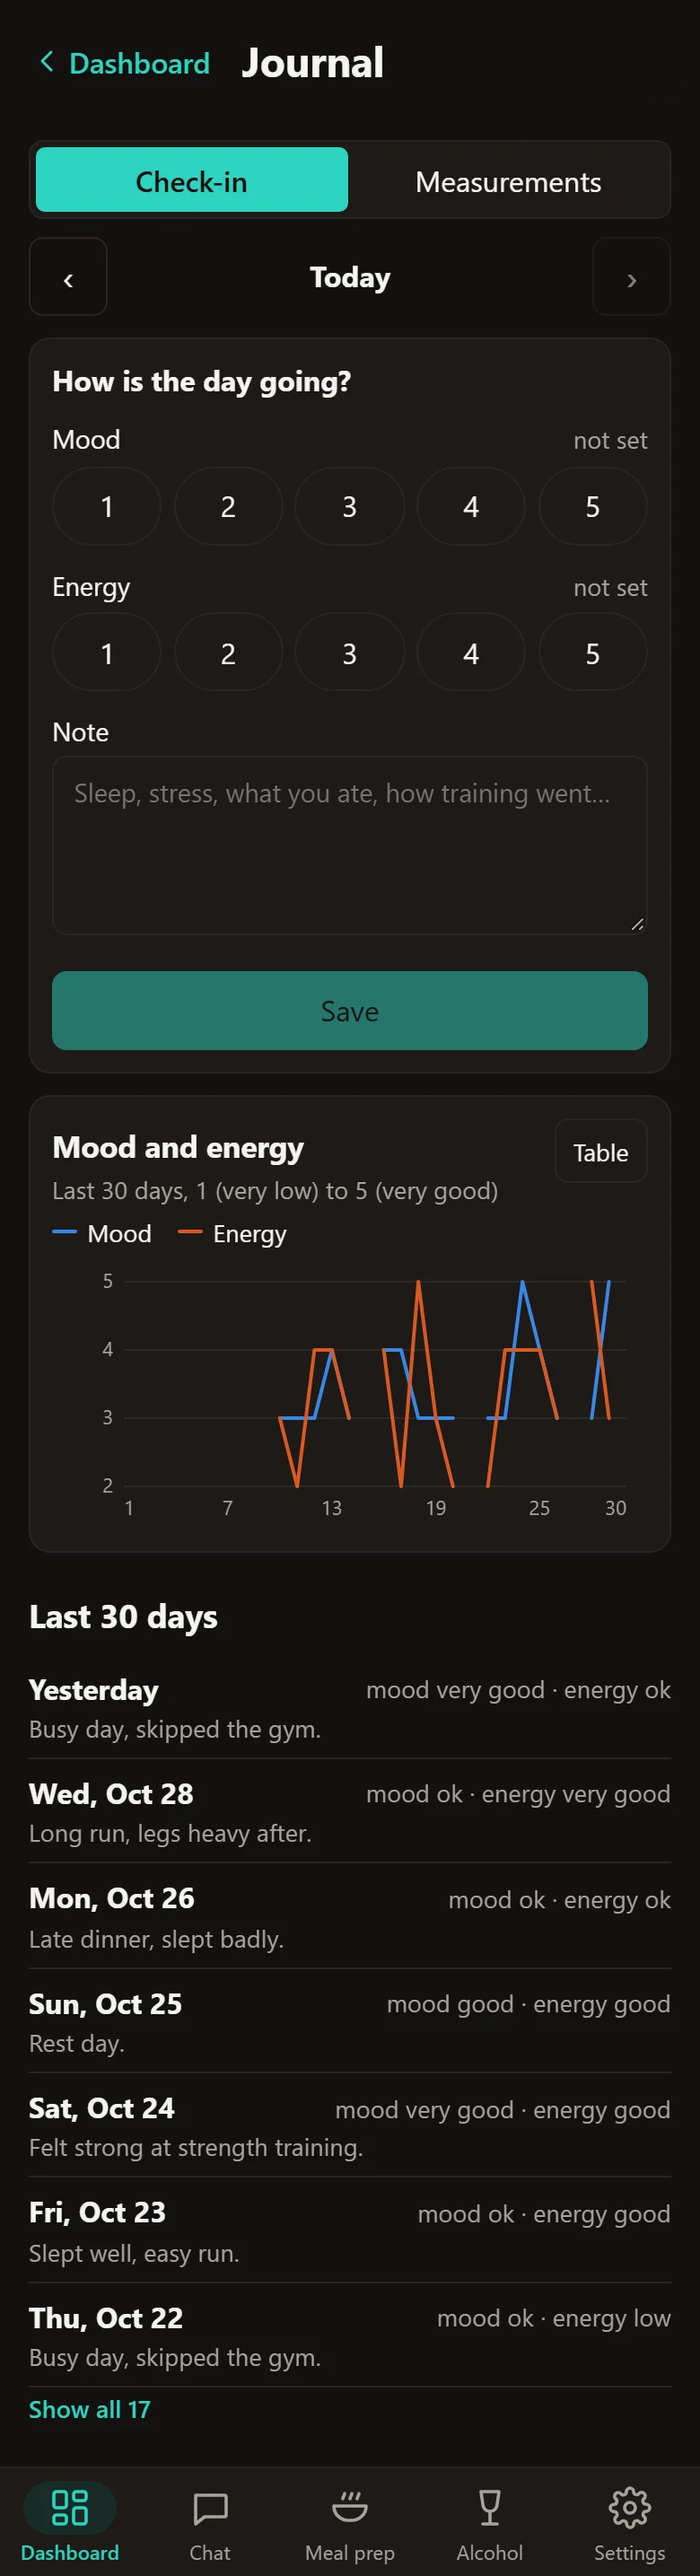
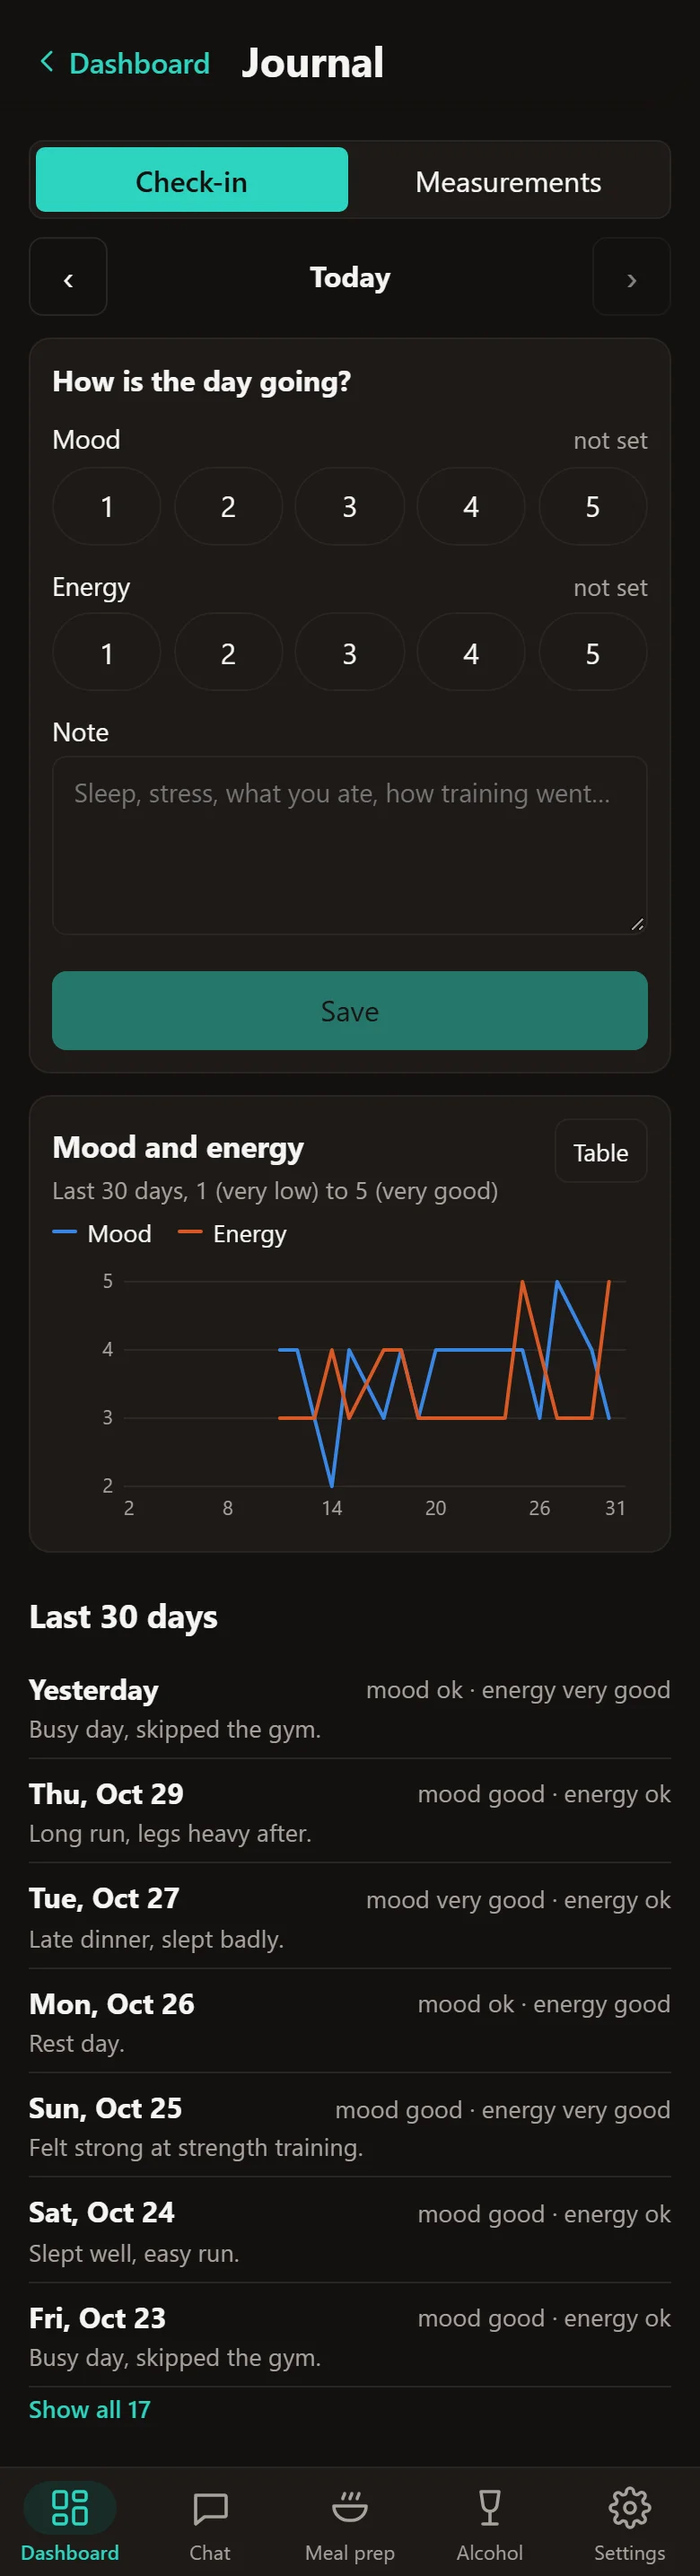
Mood and energy chart: one line across days with no check-in
LineChart gets connectGaps: each series is drawn straight from one logged day to the next
instead of breaking at every missing day. The journal's mood and energy chart uses it, since
check-ins are sparse; other charts keep their breaks. Also drops the Debug logs captures,
which docs:screens no longer makes.

diff --git a/src/ui/charts/LineChart.tsx b/src/ui/charts/LineChart.tsx
@@ -1,6 +1,6 @@
 import { useState, type KeyboardEvent, type PointerEvent } from "react";
 import { ChartFrame, EmptyPlot, seriesColor, SINGLE, Tooltip, useWidth, type LegendItem } from "./frame";
-import { compact, extent, fmtValue, labelIndexes, lastValueIndex, linear, linePath, nearestIndex, niceTicks, segments } from "./scale";
+import { compact, extent, fmtValue, labelIndexes, lastValueIndex, linear, linePath, nearestIndex, niceTicks, present, segments } from "./scale";
 
 export interface LineSeries {
   id: string;
@@ -27,6 +27,8 @@ export interface LineChartProps {
   target?: number | null;
   /** Start the y axis at zero (amounts). Off for levels such as resting heart rate. */
   zero?: boolean;
+  /** Draw each line straight across missing days instead of breaking it (sparse logs such as mood). */
+  connectGaps?: boolean;
   height?: number;
   dim?: boolean;
 }
@@ -34,7 +36,8 @@ export interface LineChartProps {
 const PAD = { top: 12, right: 12, bottom: 24, left: 40 };
 
 /**
- * Trend over time, one or more series on one axis. Missing days break the line. One series gets
+ * Trend over time, one or more series on one axis. Missing days break the line, unless connectGaps
+ * joins the days either side. One series gets
  * a soft area wash and its last value labelled; several get a legend. Hover or arrow keys move a
  * crosshair that reads out every series at that x.
  */
@@ -49,6 +52,7 @@ export function LineChart({
   unit,
   target = null,
   zero = false,
+  connectGaps = false,
   height = 180,
   dim,
 }: LineChartProps) {
@@ -133,20 +137,24 @@ export function LineChart({
             </g>
           )}
           {series.map((s, i) =>
-            segments(s.values).map((seg) => {
-              const pts = seg.values.map((v, k) => [sx(seg.start + k), sy(v)] as [number, number]);
-              return (
-                <g key={`${s.id}-${seg.start}`}>
-                  {single && pts.length > 1 && <path className="viz-area" d={`${linePath(pts)} V${baseline} H${pts[0][0]} Z`} style={{ fill: color(s, i) }} />}
-                  {pts.length > 1 ? (
-                    <path className="viz-line" d={linePath(pts)} style={{ stroke: color(s, i) }} />
-                  ) : (
-                    // A lone day between gaps has no line to sit on: show it as a dot.
-                    <circle className="viz-dot" cx={pts[0][0]} cy={pts[0][1]} r={4} style={{ fill: color(s, i) }} />
-                  )}
-                </g>
-              );
-            }),
+            (connectGaps ? [present(s.values)] : segments(s.values).map((seg) => seg.values.map((v, k) => [seg.start + k, v] as [number, number])))
+              .filter((seg) => seg.length > 0)
+              .map((seg) => {
+                const pts = seg.map(([j, v]) => [sx(j), sy(v)] as [number, number]);
+                return (
+                  <g key={`${s.id}-${seg[0][0]}`}>
+                    {single && pts.length > 1 && (
+                      <path className="viz-area" d={`${linePath(pts)} V${baseline} H${pts[0][0]} Z`} style={{ fill: color(s, i) }} />
+                    )}
+                    {pts.length > 1 ? (
+                      <path className="viz-line" d={linePath(pts)} style={{ stroke: color(s, i) }} />
+                    ) : (
+                      // A lone day between gaps has no line to sit on: show it as a dot.
+                      <circle className="viz-dot" cx={pts[0][0]} cy={pts[0][1]} r={4} style={{ fill: color(s, i) }} />
+                    )}
+                  </g>
+                );
+              }),
           )}
           {single &&
             (() => {

diff --git a/tests/uiKit.test.ts b/tests/uiKit.test.ts
@@ -3,7 +3,7 @@ import assert from "node:assert/strict";
 import { createElement as h } from "react";
 import { renderToStaticMarkup } from "react-dom/server";
 import { BarChart, CalendarHeatmap, LineChart, StatTile } from "../src/ui/charts";
-import { columnPath, compact, labelIndexes, linear, nearestIndex, niceTicks, segments } from "../src/ui/charts/scale";
+import { columnPath, compact, labelIndexes, linear, nearestIndex, niceTicks, present, segments } from "../src/ui/charts/scale";
 import { DefrostTimeline, StockAlerts } from "../src/ui/mealprep/components";
 import { daysCovered, timelineDays } from "../src/ui/mealprep/timeline";
 import { MacroSplit } from "../src/ui/nutrition";
@@ -106,6 +106,15 @@ test("charts: accessible name, table toggle, empty state, target in words", () =
   );
   assert.match(multi, /viz-legend/);
   assert.match(multi, /var\(--series-4\)/, "an explicit slot keeps its color");
+
+  // Missing days break the line (two lone days, two dots), unless connectGaps joins them in one line.
+  const gappy = { title: "Mood", x, series: [{ id: "a", label: "Mood", values: [3, null, 5] }] };
+  assert.equal((render(h(LineChart, gappy)).match(/class="viz-line"/g) ?? []).length, 0);
+  assert.equal((render(h(LineChart, { ...gappy, connectGaps: true })).match(/class="viz-line"/g) ?? []).length, 1);
+  assert.deepEqual(present([null, 3, null, null, 5, Number.NaN]), [
+    [1, 3],
+    [4, 5],
+  ]);
 
   const empty = render(h(LineChart, { title: "Nothing", x, series: [{ id: "a", label: "x", values: [null, null, null] }] }));
   assert.match(empty, /No data for this range/);

diff --git a/src/ui/charts/scale.ts b/src/ui/charts/scale.ts
@@ -93,6 +93,11 @@ export function nearestIndex(x: number, left: number, width: number, count: numb
 }
 
 /** Runs of consecutive non-null values, so a line breaks at missing days instead of bridging them. */
+/** The points that have a value, as [index, value], for a line drawn straight across the gaps. */
+export function present(values: (number | null)[]): [number, number][] {
+  return values.flatMap((v, i) => (v === null || !Number.isFinite(v) ? [] : [[i, v] as [number, number]]));
+}
+
 export function segments(values: (number | null)[]): { start: number; values: number[] }[] {
   const out: { start: number; values: number[] }[] = [];
   let cur: { start: number; values: number[] } | null = null;

diff --git a/src/screens/journal/JournalScreen.tsx b/src/screens/journal/JournalScreen.tsx
@@ -182,6 +182,7 @@ function CheckIn({ db, version, initialDay, onChanged }: { db: SqlDriver; versio
           formatX={(d) => String(Number(d.slice(8)))}
           formatXLong={(d) => fmtDay(d)}
           formatValue={(v) => SCALE[Math.round(v) - 1] ?? String(v)}
+          connectGaps
           height={150}
         />
       )}
